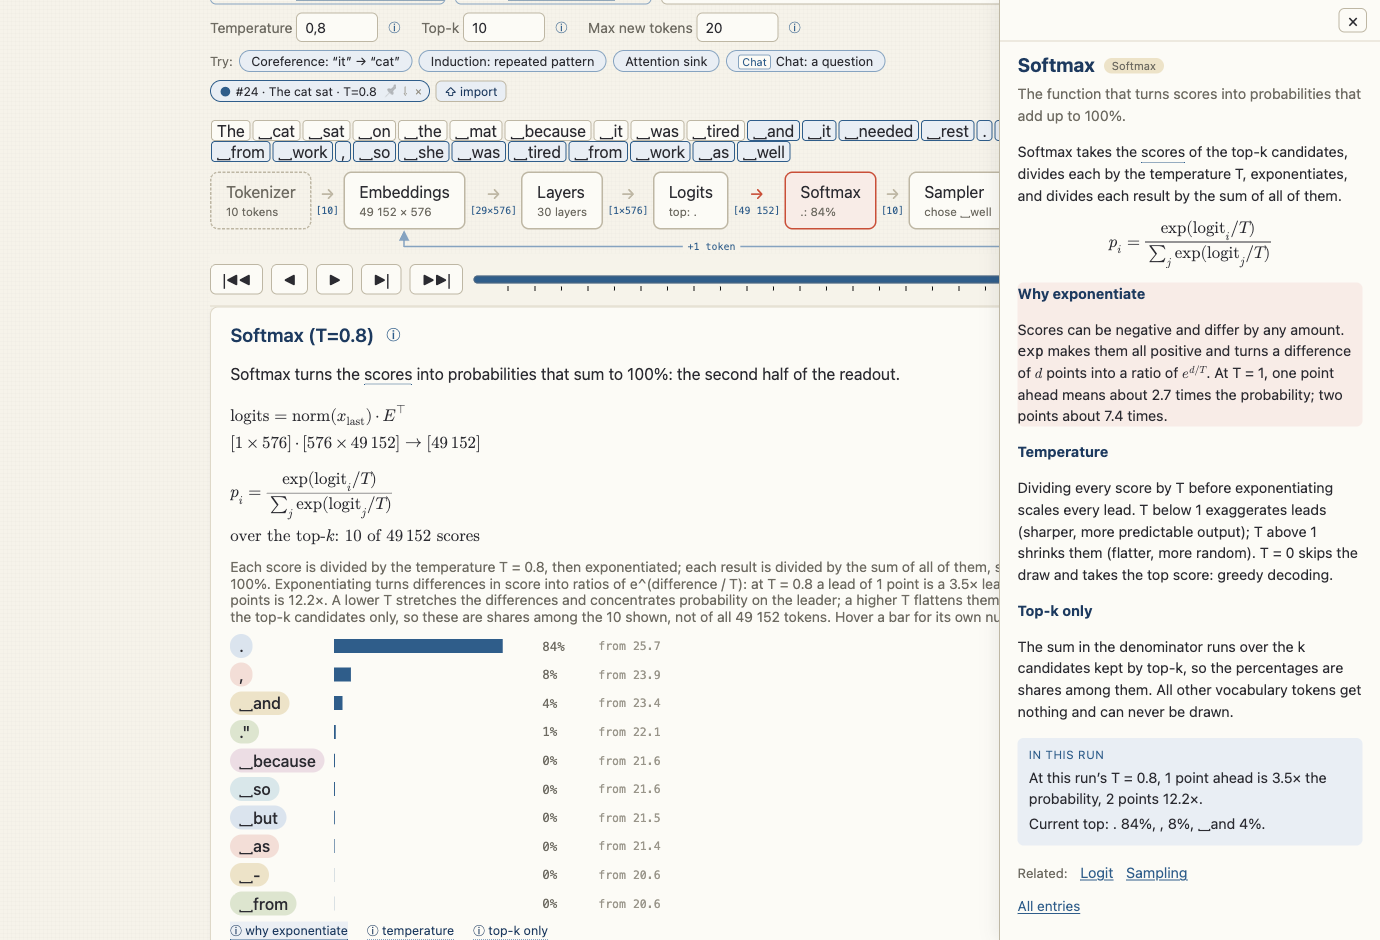
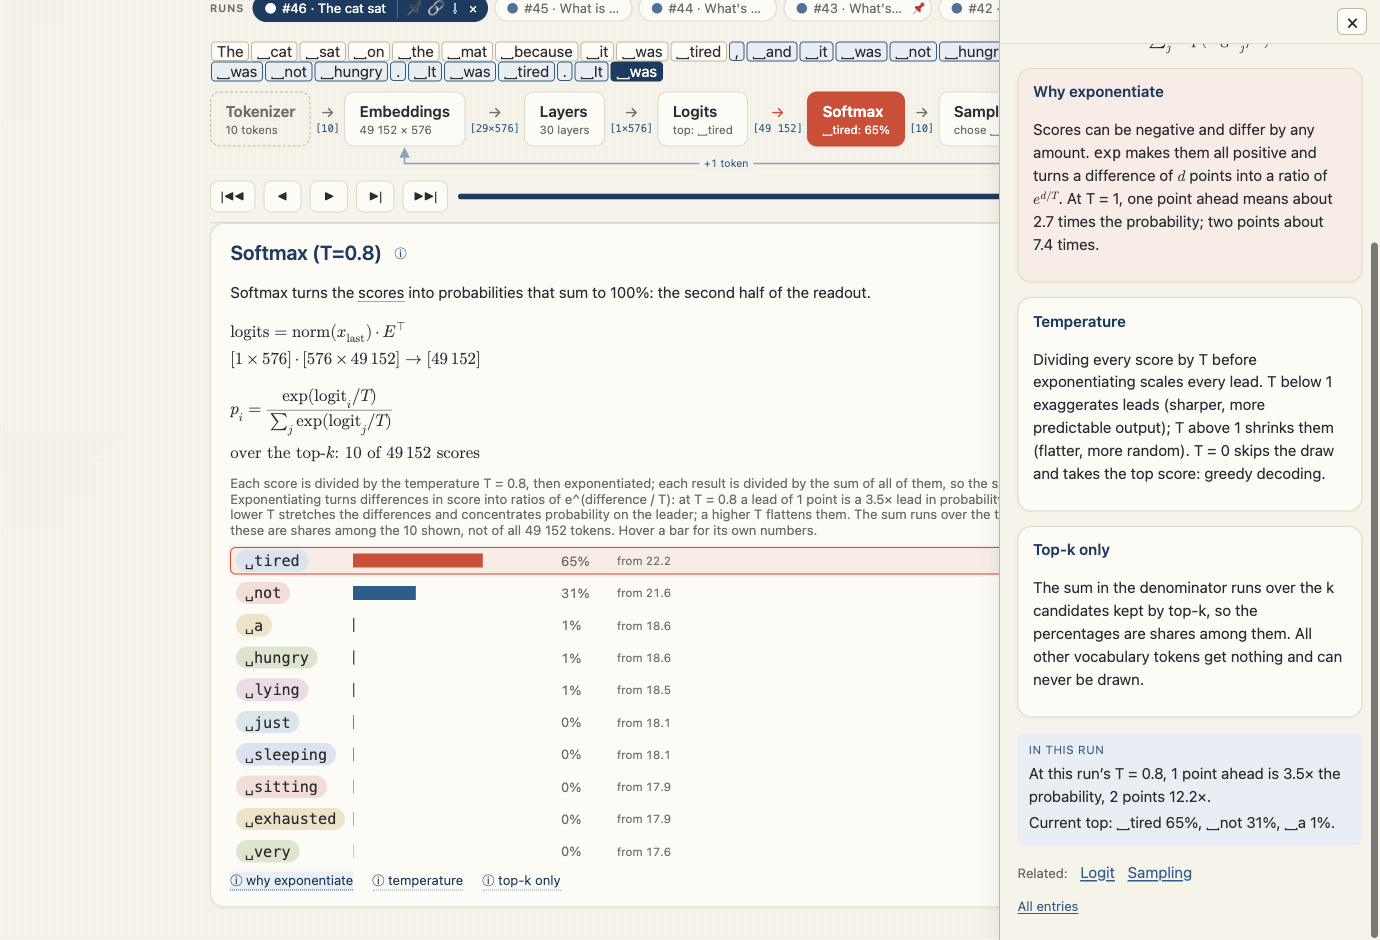
docs: screenshots and README for the refreshed design

diff --git a/README.md b/README.md
@@ -44,7 +44,7 @@ and underlined words and ⓘ chips in the cards open the matching entry.
   to the stock `HuggingFaceTB/SmolLM2-135M-Instruct` export (~120 MB,
   schematic layers). Prefers WebGPU, falls back to WASM automatically.
 
-  With the real model the prompt bar offers two ways to run a prompt.
+  With the real model the prompt box offers two ways to run a prompt.
   **Continue text** feeds your words to the model as they are. **Chat**
   (real model only) wraps them in SmolLM2's chat template, so the model
   answers as the assistant. The system prompt is editable; leave it empty
@@ -367,14 +367,16 @@ probability ratios at the run's temperature.
 
 ## Comparing runs
 
-Every completed run is kept on a **run shelf** under the prompt bar —
-generation stops being fire-and-forget. Runs survive page reloads
-(IndexedDB), the eight most recent are kept automatically, a pin (📌)
-protects a run from falling off, and any run can be exported as a JSON
-trace file and imported back later — on another machine, or into a bug
-report.
+Every completed run is kept on a one-row **run shelf** under the prompt box,
+newest first — generation stops being fire-and-forget. The row shows the
+five newest runs and the active one; **+N more** opens the full list. Pin,
+copy link, download and remove appear on the active chip and on the chip
+under the pointer. Runs survive page reloads (IndexedDB), the eight most
+recent are kept automatically, a pin (📌) protects a run from falling off,
+and any run can be exported as a JSON trace file and imported back later
+(**Import**, top right) — on another machine, or into a bug report.
 
-Select two runs (**⇄ compare**, then click a second chip) and everything
+Select two runs (**⇄ Compare** in the header, then click a second chip) and everything
 below the shelf becomes a comparison view: both runs' parameters with
 differences highlighted, the two token streams aligned cycle by cycle,
 and — for runs with the same prompt — the **fork** marked: the first
